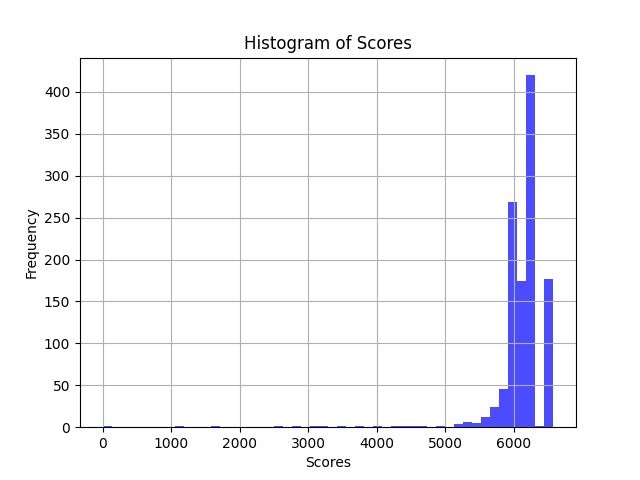
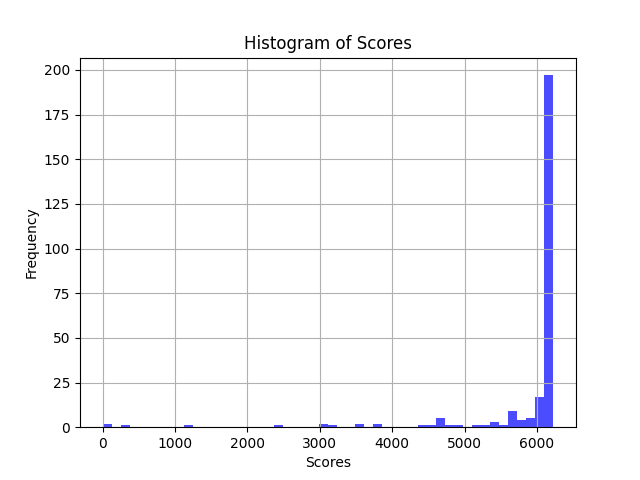
good parameters for depth_first and some type hint railnl

diff --git a/code/railnl.py b/code/railnl.py
@@ -1,6 +1,7 @@
 from station import Station
 from traject import Traject
 from matplotlib.widgets import CheckButtons
+from typing import Any, Optional
 
 import mplcursors
 import geopandas as gpd
@@ -21,7 +22,7 @@ class RailNL():
         self.scores_list = []
 
 
-    def load_stations(self, station_filename):
+    def load_stations(self, station_filename: str) -> None:
         """
         loads stations into 2 different lists one for the name and 
         the other into a list of station variables
@@ -41,7 +42,7 @@ class RailNL():
                 station = Station(name, x, y)
                 self.stations.append(station)
 
-    def load_connections(self, connection_filename):
+    def load_connections(self, connection_filename: str) -> None:
         """
         loads the connections between stations and puts a station's connections with
         each station it has inside of a list.
@@ -66,8 +67,6 @@ class RailNL():
                     if station.name == station_data:
                         starting_connection = station
                         
-                        
-                        # name_1 = station_data
 
                     if station.name == connection_data:
                         ending_connection = station
@@ -78,7 +77,7 @@ class RailNL():
                     self.amount_of_connections += 1
                     
         # using the name of the station to get the station variable 
-    def get_station_by_name(self, station_name: str):
+    def get_station_by_name(self, station_name: str) -> Any:
         """
         uses the name of a station to give the station object
 
@@ -91,7 +90,7 @@ class RailNL():
         return None
 
     
-    def plot_network(self):
+    def plot_network(self) -> None:
         """
         creates a plot showing the trajects with different lines and it also shows
         the station with their corresponding name when hovering over it.
@@ -212,7 +211,7 @@ class RailNL():
         plt.show()
     
     
-    def get_station_by_coordinates(self, x, y):
+    def get_station_by_coordinates(self, x: float, y: float) -> Optional[Station]:
         """
         uses the coordinates to get the station object connected to it
 
@@ -227,7 +226,7 @@ class RailNL():
 
 
     # Calculates and returns score.
-    def get_score(self):
+    def get_score(self) -> float:
         """
         calculates the K score as defined on the case website, returns an integer
         
@@ -237,8 +236,8 @@ class RailNL():
               sum_min: de total time of all the trajects
         """
         sum_min = 0 # Min het aantal minuten in alle trajecten samen.
-        bereden_trajecten = 0
-        bereden_unique_verbinding = set([])
+        bereden_trajecten: int = 0
+        bereden_unique_verbinding: set[list]= set([])
         T = len(self.trajecten) #het aantal trajecten
         for traject_index in self.trajecten:
             sum_min += self.sum_time(traject_index)  # Berekent per traject de duration
@@ -256,13 +255,13 @@ class RailNL():
         if self.amount_of_connections == 0:
         # If there are no connections, return 0 for genetic algorithm
             return 0
-        p =  (len(bereden_unique_verbinding)/2) / self.amount_of_connections  # de fractie van de bereden verbindingen (dus tussen 0 en 1)
+        p: float =  (len(bereden_unique_verbinding)/2) / self.amount_of_connections  # de fractie van de bereden verbindingen (dus tussen 0 en 1)
         
-        K = p*10000 - (T*100 + sum_min)
+        K: float= p*10000 - (T*100 + sum_min)
         
         return round(K, 2)
     
-    def create_traject(self, traject_index):
+    def create_traject(self, traject_index) -> Traject:
         """
         creates a new empty traject and adds a traject_index to it
 
@@ -276,7 +275,7 @@ class RailNL():
         
         return traject
     
-    def sum_time(self, traject_index):
+    def sum_time(self, traject_index) -> int:
         """
         calculates the sum time of the traject
 
@@ -296,7 +295,7 @@ class RailNL():
         return duration
 
     # Saves output to csv file.
-    def upload_output(self, output_filename):
+    def upload_output(self, output_filename) -> csv:
         """
         uploads the output inside the file_name 
 
@@ -313,7 +312,7 @@ class RailNL():
             writer.writerow((['score', self.get_score()]))
     
     # Prints example output
-    def print_output(self):
+    def print_output(self) -> str:
         """
         prints out the example output with the score and the total time for each traject
 
@@ -331,7 +330,7 @@ class RailNL():
         print(f"Score: {self.get_score()}")
     
     # Method that clears all the trajects of the railnl instance.
-    def clear_trajecten(self):
+    def clear_trajecten(self) -> None:
         """
         gets rid of all trajects inside the railnl
 
@@ -340,7 +339,7 @@ class RailNL():
         self.trajecten = {}
 
 
-    def get_num_connections(self):
+    def get_num_connections(self) -> int:
         """
         looks at how many total connections there are from the connections file 
 
@@ -349,7 +348,7 @@ class RailNL():
         return self.amount_of_connections
 
         # Delete traject, and adjusts every traject index so that it is numbered from 1 to len(trajecten)
-    def delete_traject(self, traject_index):
+    def delete_traject(self, traject_index: int) -> None:
         """
         deletes a specific traject when a traject_index is given
 

diff --git a/code/depth_first.py b/code/depth_first.py
@@ -16,8 +16,8 @@ connection_data: pd.DataFrame = pd.read_csv(file_path)
 max_aantal_minuten: int = 180
 max_aantal_trajecten: int = 15
 threshold_visit_frequency: int = 9  # Adjust as needed
-MAX_ATTEMPTS: int = 300
-min_stations: int = 2
+MAX_ATTEMPTS: int = 400
+min_stations: int = 3
 
 # Function to find central hubs
 def find_central_hubs(connection_data: pd.DataFrame) -> List[str]:
@@ -233,6 +233,6 @@ def iterative_depth_first(max_depth: int, iterations: int, central_hubs: List[st
 
 # Example usage
 max_depth: int = 75
-iterations: int = 1050
-no_improvement_threshold: int = 63
+iterations: int = 240
+no_improvement_threshold: int = 40
 best_rail: RailNL = iterative_depth_first(max_depth, iterations, central_hubs, no_improvement_threshold)
